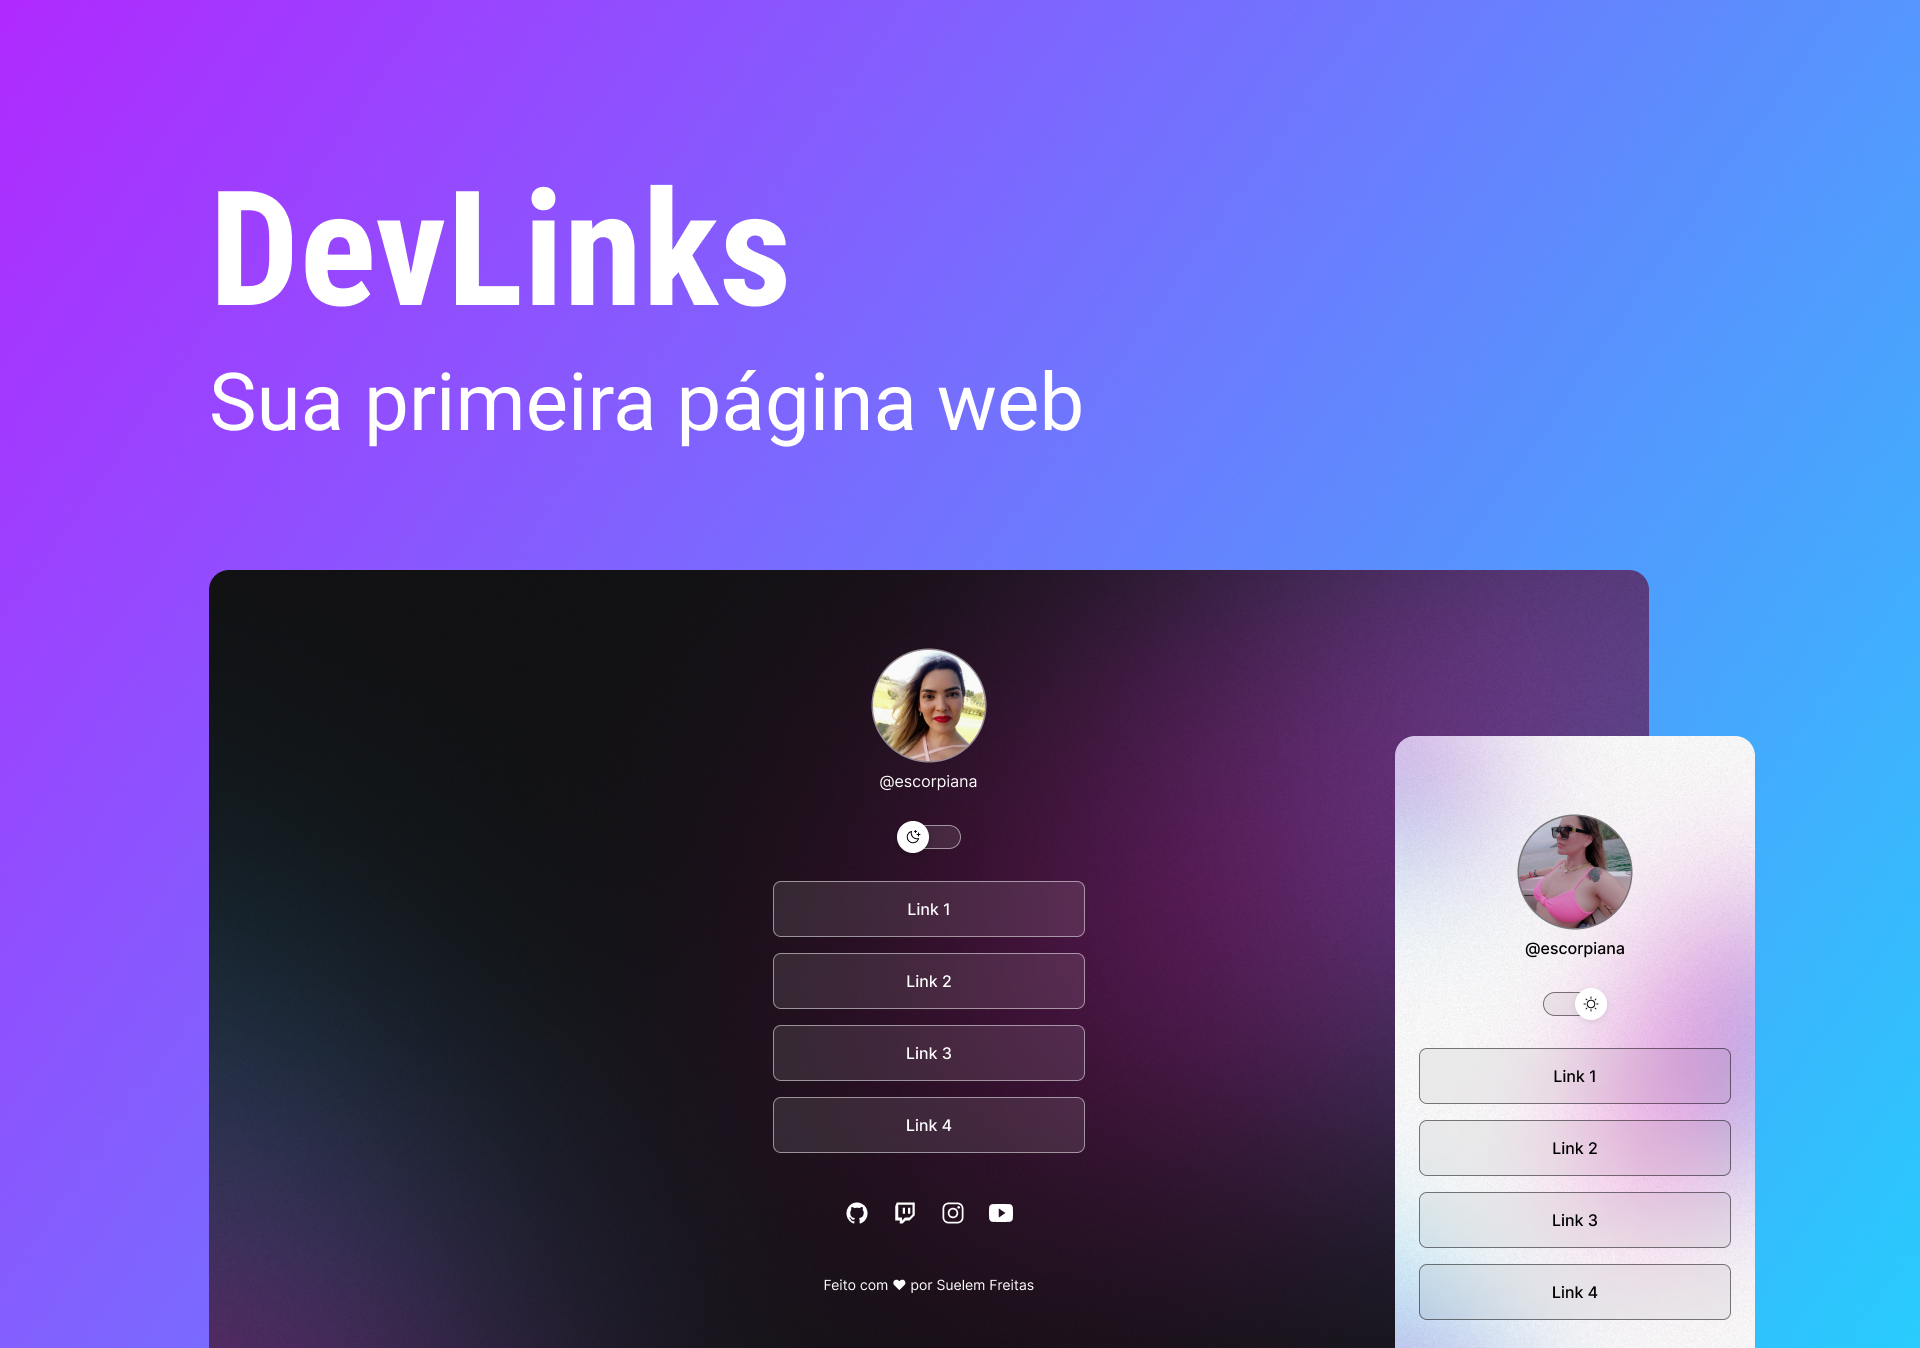
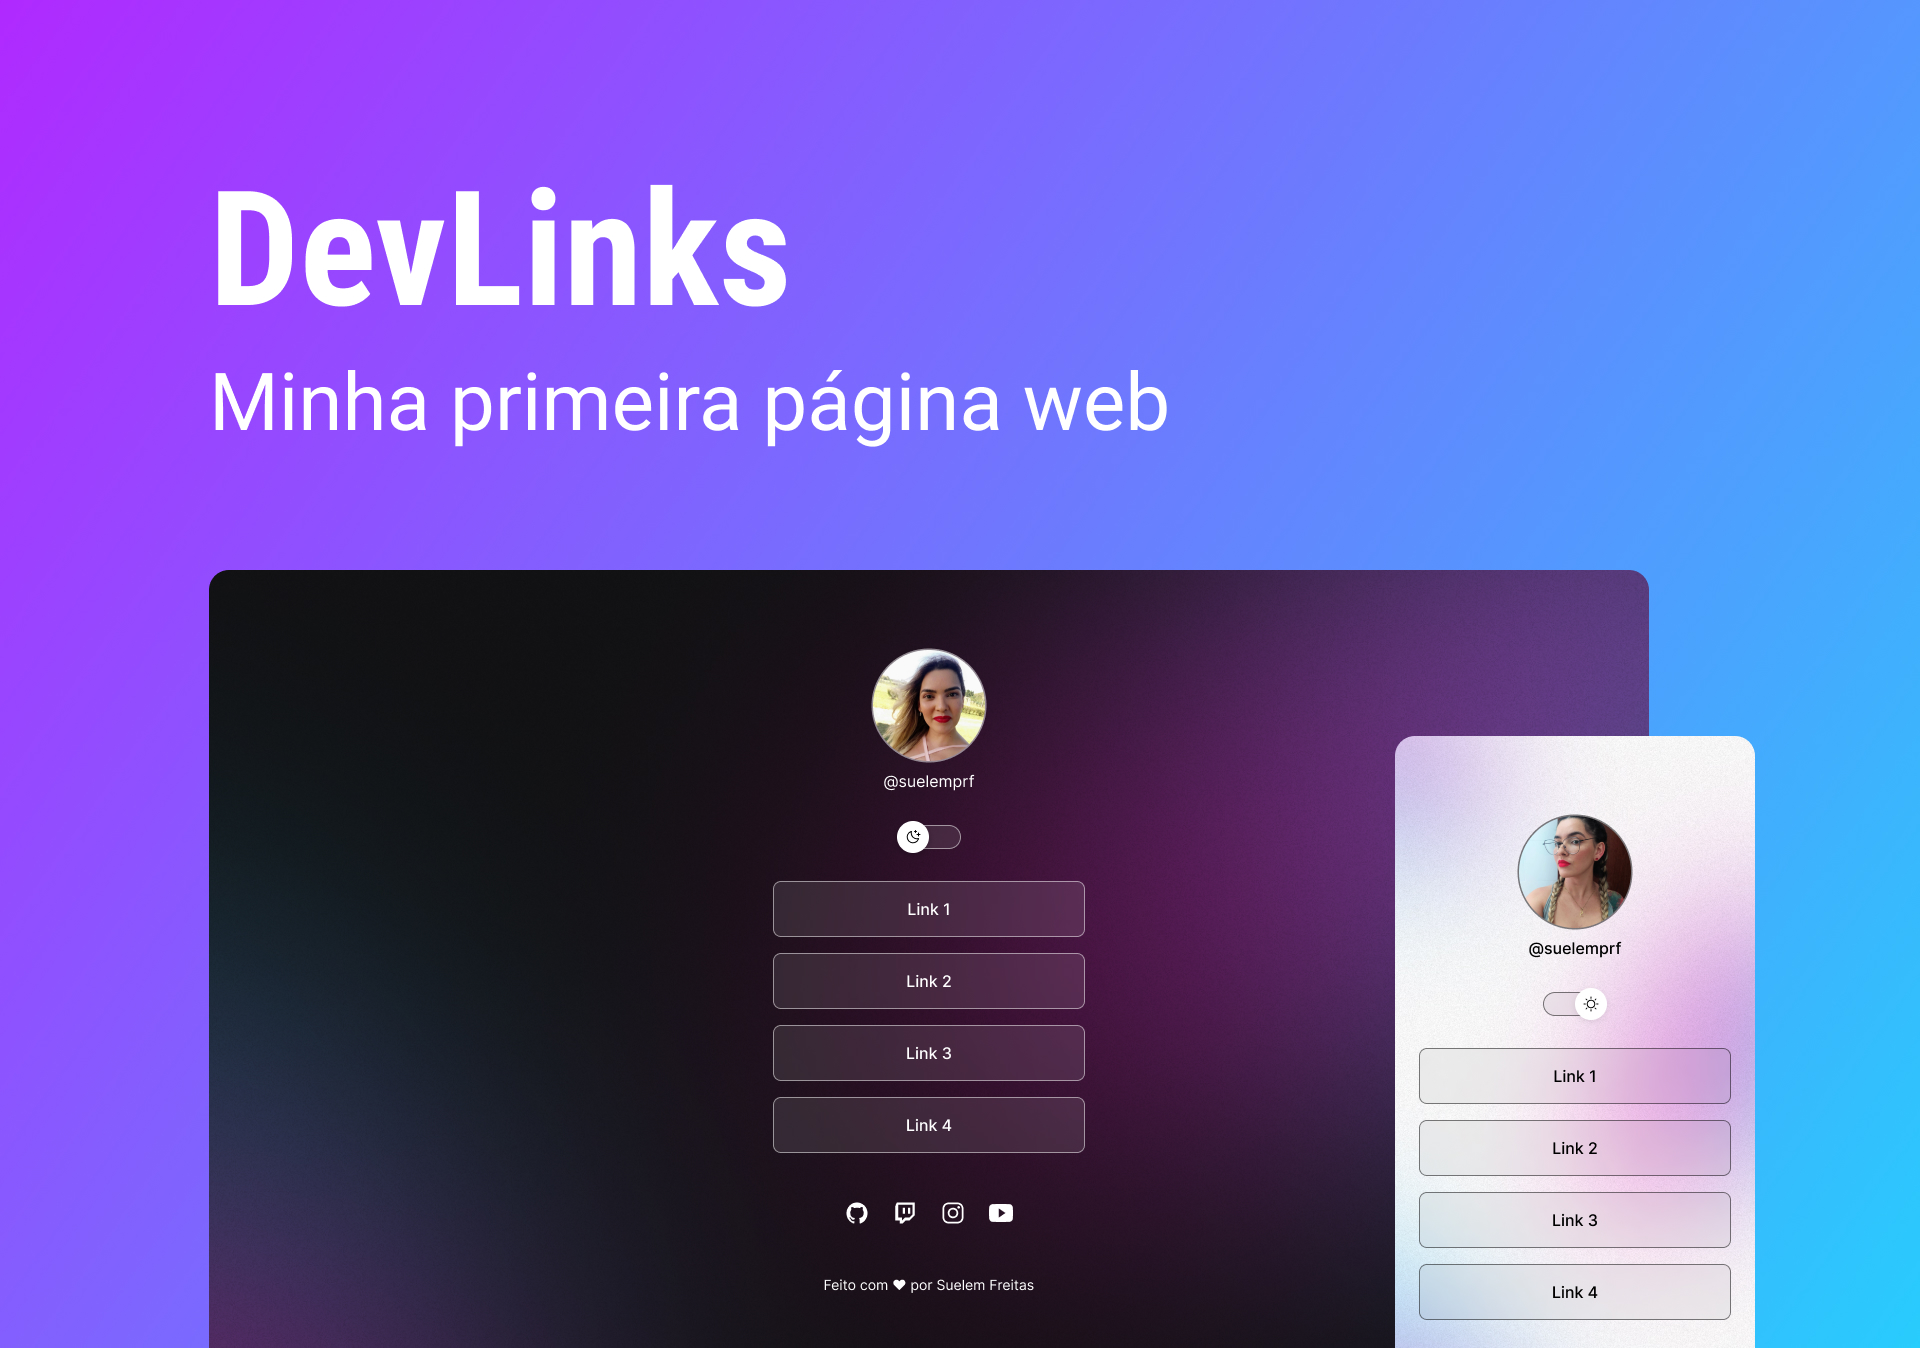
atualização de informações pessoais

Changed region(s): [[0.0938, 0.2804, 0.625, 0.3427], [0.7812, 0.592, 0.875, 0.7166], [0.4688, 0.5608, 0.5, 0.592]]

diff --git a/portfolio/index.html b/portfolio/index.html
@@ -41,7 +41,7 @@
 
         <li>
           <a
-            href="https://music.amazon.com.br/my/playlists/53fb064c-e121-4aa9-84d7-e6fca7733d3a"
+            href="https://open.spotify.com/playlist/4FtdilLkWkfiLwGpbj4nLE?si=af075e393ac149bf"
             target="_blank"
             >My favorite playlist</a
           >
@@ -49,22 +49,26 @@
 
         <li>
           <a
-            href="https://www.uol.com.br/universa/horoscopo/escorpiao/"
+            href="https://docs.google.com/viewer?a=v&pid=sites&srcid=ZGVmYXVsdGRvbWFpbnxtaW5kc2V0Y2Fyb2xkd2VjazAwM3xneDo2MTc0ZGU4ZGYzYTI4YWUw"
             target="_blank"
-            >About me</a
           >
+            I'm reading
+          </a>
         </li>
       </ul>
       <div id="social_links">
-        <a href="https://github.com" target="_blank">
+        <a href="https://github.com/SuPRF" target="_blank">
           <ion-icon name="logo-github"></ion-icon>
         </a>
 
-        <a href="https://discord.com" target="_blank">
-          <ion-icon name="logo-discord"></ion-icon>
+        <a
+          href="https://www.linkedin.com/in/suelem-freitas-78311bb7/"
+          target="_blank"
+        >
+          <ion-icon name="logo-linkedin"></ion-icon>
         </a>
 
-        <a href="http://skype.com" target="_blank">
+        <a href="https://join.skype.com/invite/axNpW14HyuTL" target="_blank">
           <ion-icon name="logo-skype"></ion-icon>
         </a>
 

diff --git a/portfolio/README.md b/portfolio/README.md
@@ -1,4 +1,4 @@
-<h1 align="center"> DevLinks </h1>
+<h1 align="center"> Projeto DevLinks </h1>
 
 <p align="center">
 Programa exclusivo e gratuito, promovido pela Rocketseat para ensino de tecnologias WEB.
